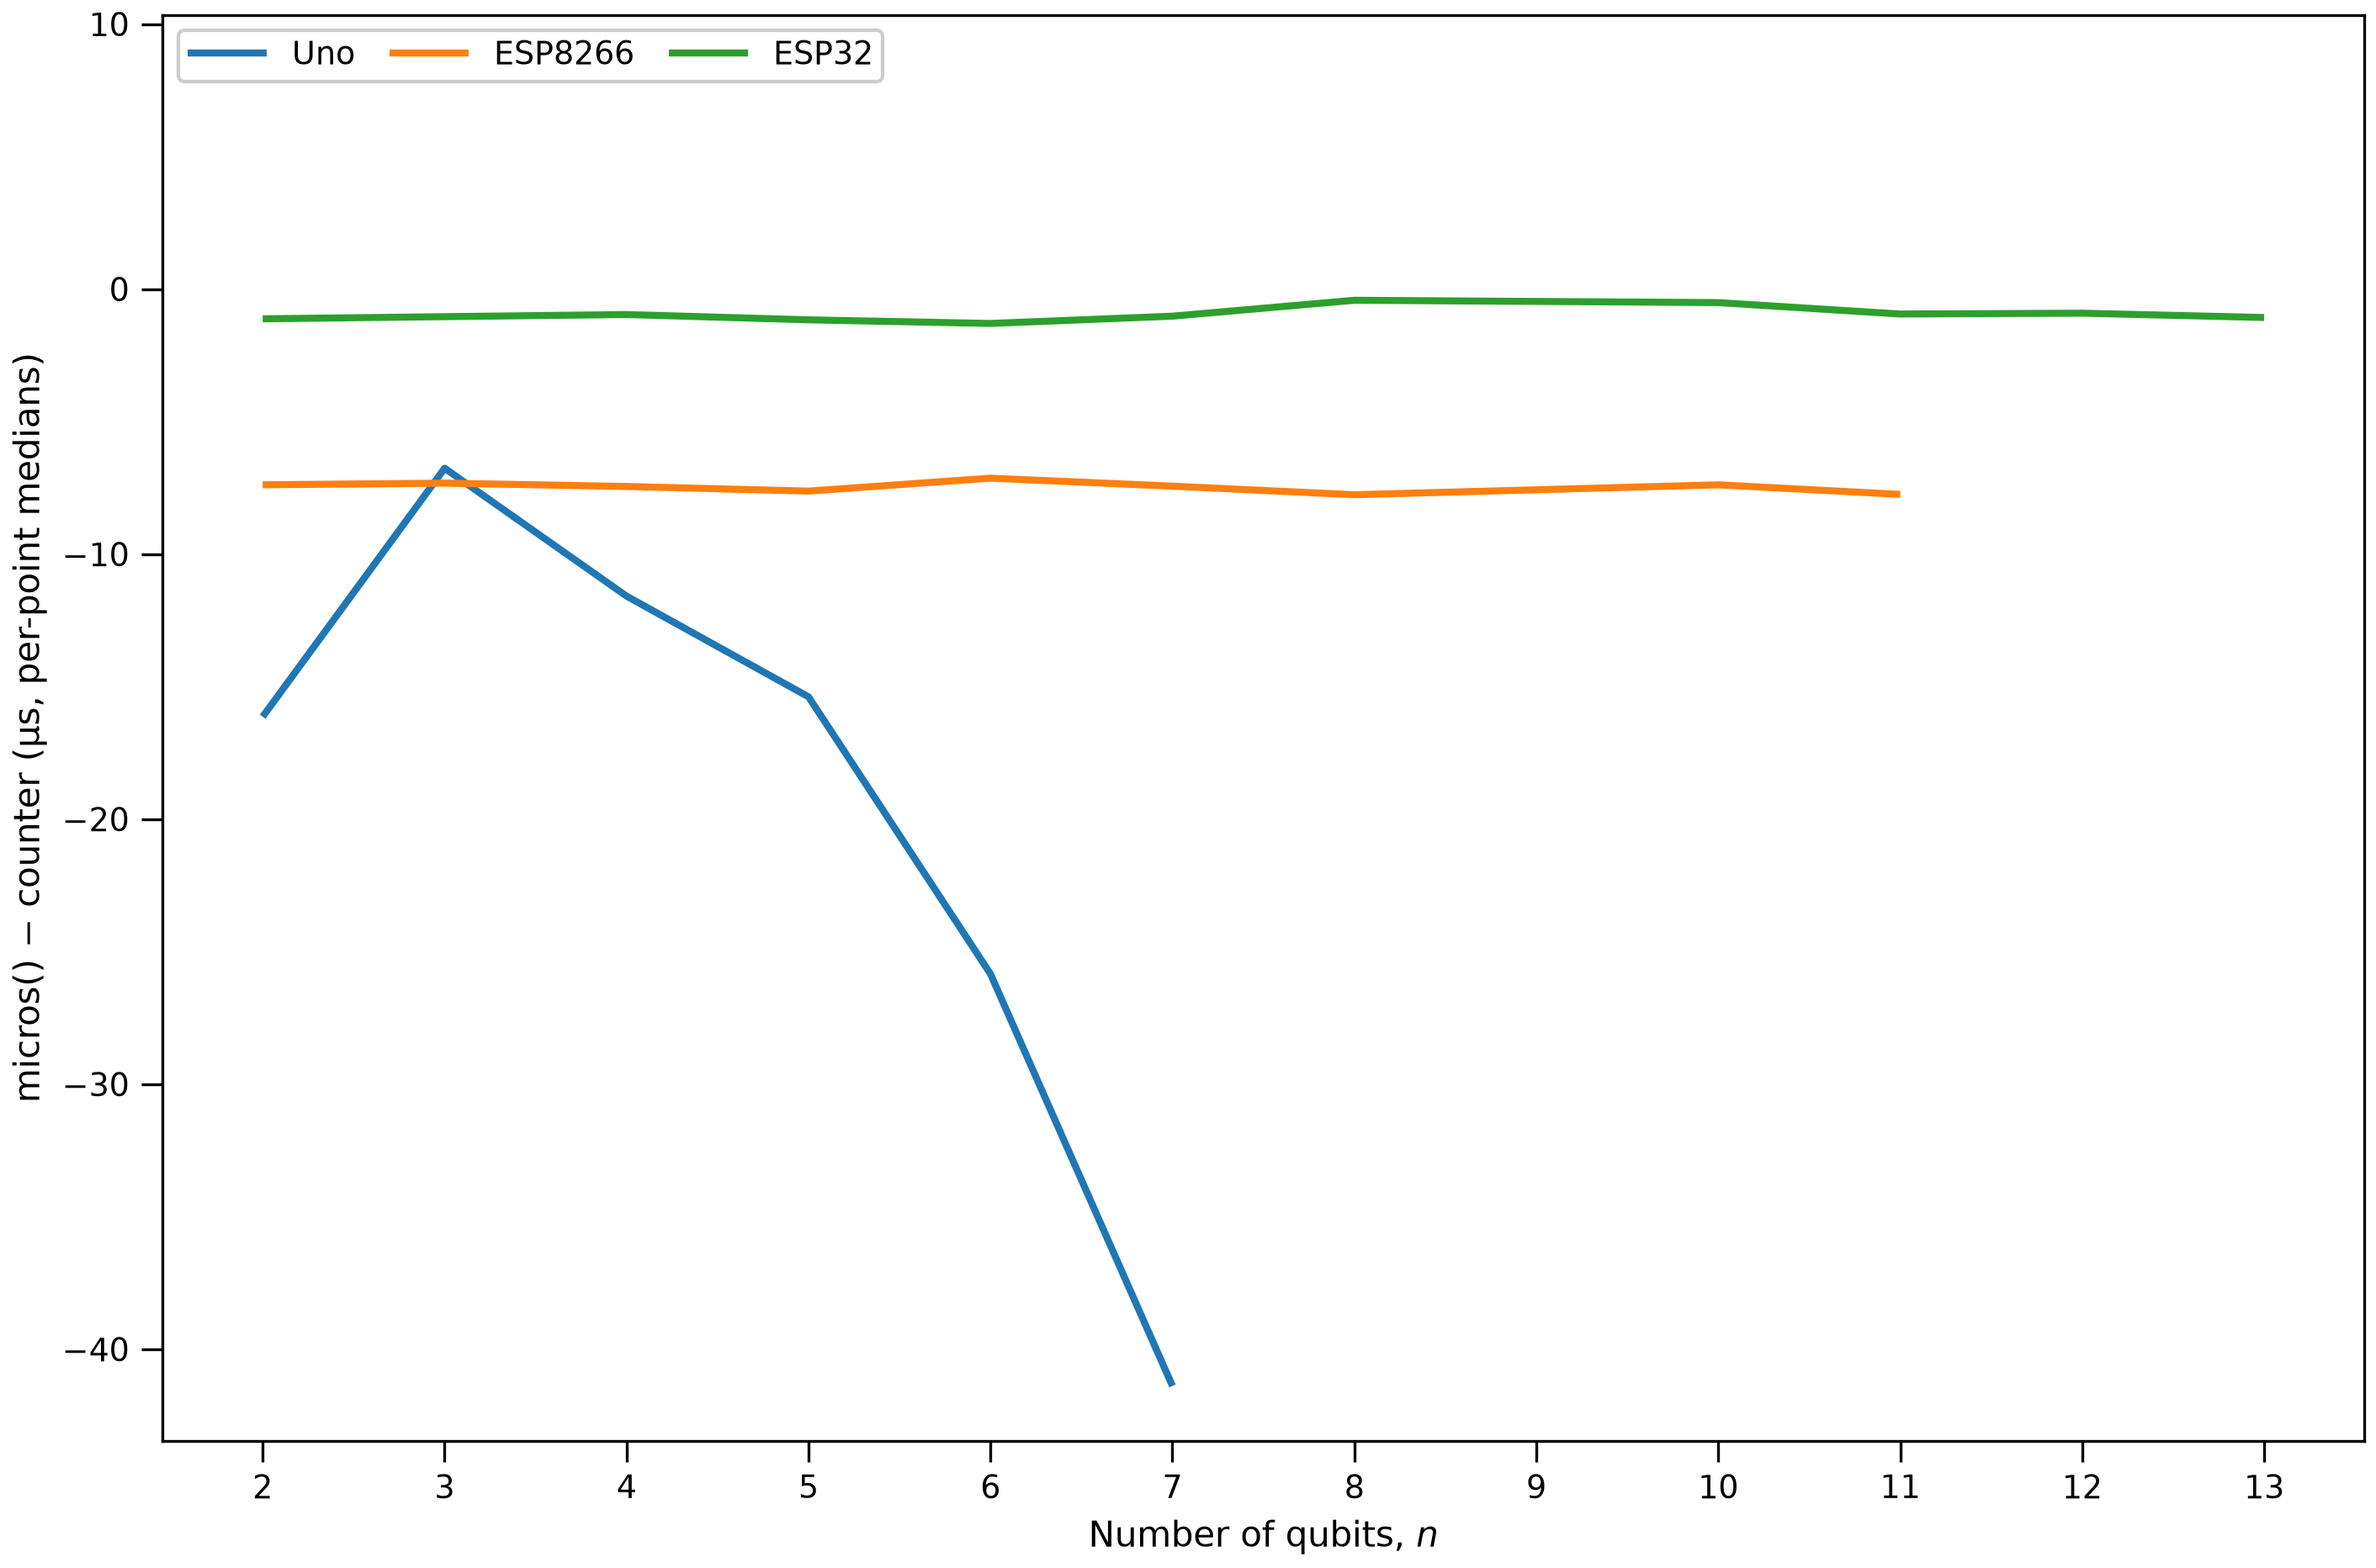
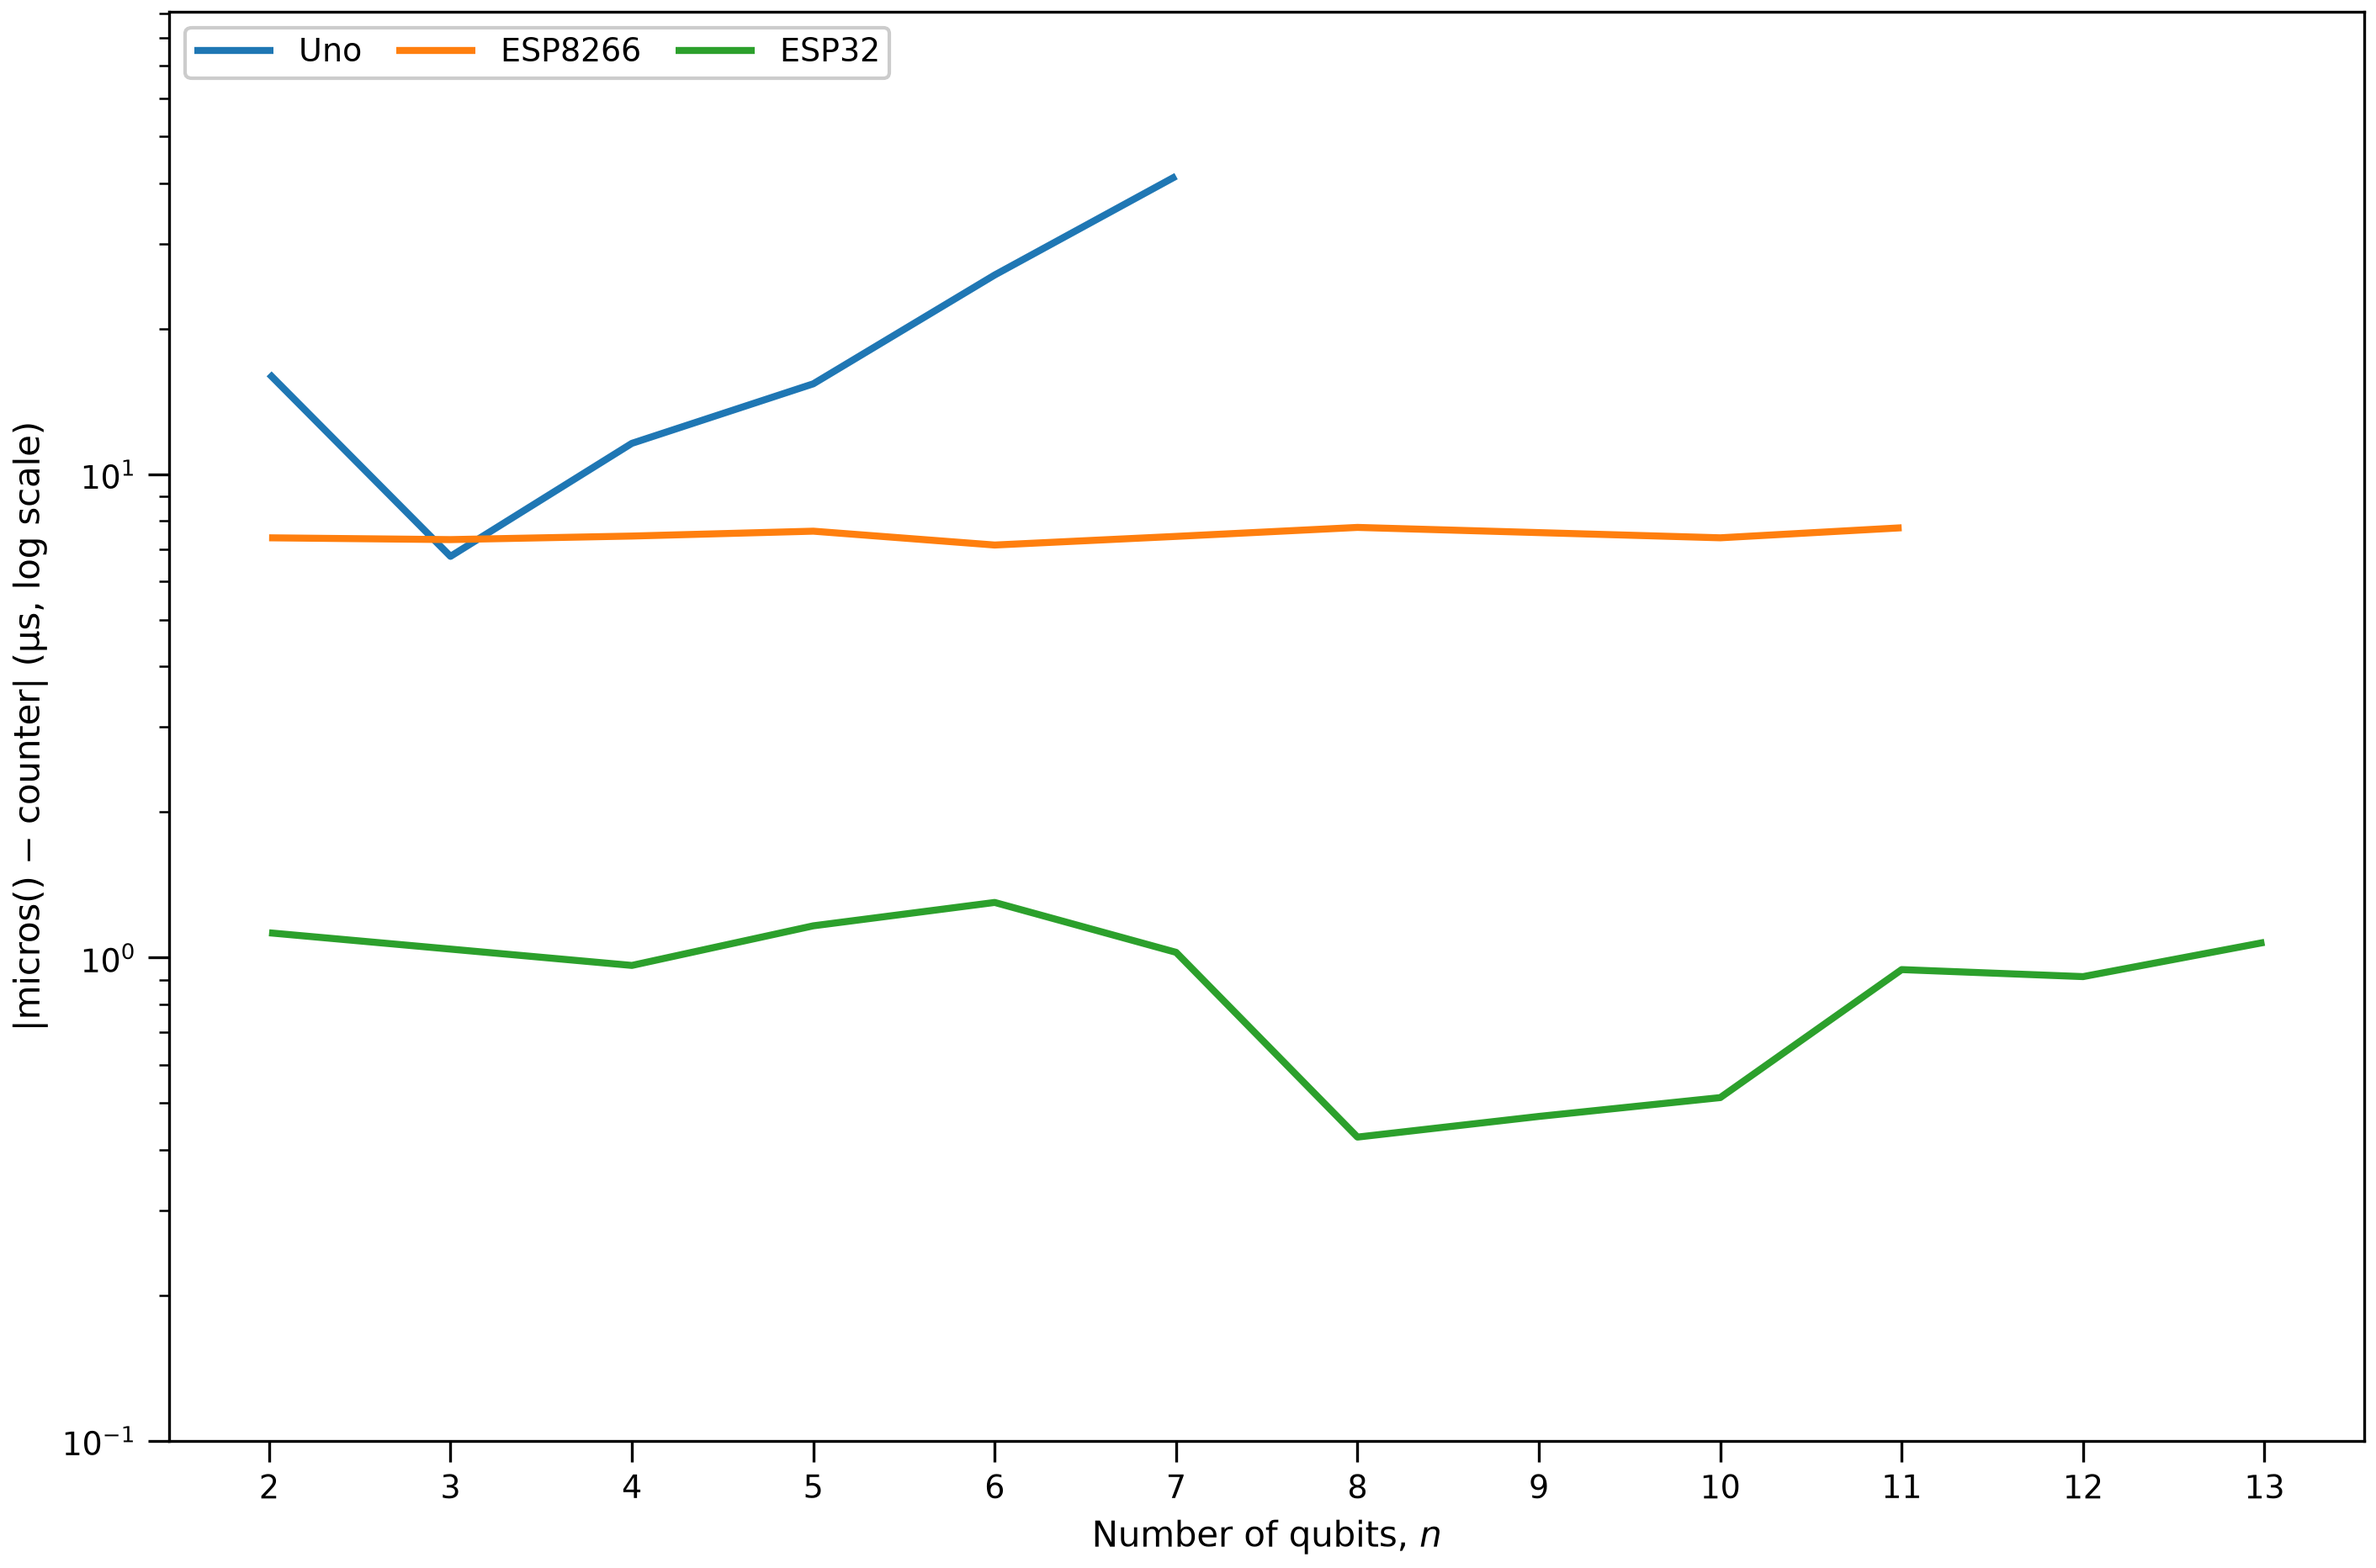
figures: timer_vs_counter charts on a log axis (absolute difference in microseconds)
Claude-Session: https://claude.ai/code/session_01AE6WdfFceGc968bUQSKnsU

diff --git a/analysis/timer_vs_counter_house_plots.py b/analysis/timer_vs_counter_house_plots.py
@@ -1,6 +1,6 @@
 #!/usr/bin/env python3
 # timer_vs_counter_house_plots.py
-# micros() minus counter (µs, point medians) vs n, one chart per circuit with the three boards, in the house line-chart style of the graph-create skill
+# |micros() minus counter| (µs, log scale, point medians; the sign is not shown) vs n, one chart per circuit with the three boards, in the house line-chart style of the graph-create skill
 # (same layout as analysis/algorithm_house_plots.py: no title, legend = board names, linear y). Only points whose counter pair passed the validity rules
 # (usable) in the selected sessions are drawn (data/derived/counter_validity.csv, read-only); the line is drawn straight over unusable points.
 #   data/figures/phase2/timer_vs_counter/<circuit>.png   data/figures/phase3/timer_vs_counter/<circuit>.png
@@ -9,6 +9,7 @@ import glob
 import os
 import sys
 
+import matplotlib.ticker as mticker
 import numpy as np
 import pandas as pd
 
@@ -21,7 +22,8 @@ from plot_style import plot_grouped_lines, save_figure  # noqa: E402
 
 cv = pd.read_csv(os.path.join(ROOT, "data", "derived", "counter_validity.csv"))
 cv = cv[cv.selected.astype(bool) & cv.usable.astype(bool) & (cv.counter_median_us > 0) & (cv.micros_median_us > 0)]
-cv = cv.assign(ratio=cv.micros_median_us - cv.counter_median_us)     # column name kept: it is the plotted value, in µs
+cv = cv.assign(ratio=(cv.micros_median_us - cv.counter_median_us).abs())     # column name kept: it is the plotted value, in µs
+cv = cv[cv.ratio > 0]                                                        # a log axis cannot show an exact 0
 NAME = {"uno": "Uno", "esp8266": "ESP8266", "esp32": "ESP32"}
 for ph in (2, 3):
     for c in ("h_all", "bell_ghz", "qft", "grover"):
@@ -29,13 +31,18 @@ for ph in (2, 3):
         rows = [{"n": int(r.n), "ratio": float(r.ratio), "board": NAME[r.board], "series": "ratio"} for r in g.sort_values(["board", "n"]).itertuples()]
         df = pd.DataFrame(rows)
         fig, ax = plot_grouped_lines(df, "n", "ratio", "board", "series", title="", xlabel="Number of qubits, $n$",
-                                     ylabel=r"micros() $-$ counter (µs, per-point medians)", log_y=False,
+                                     ylabel=r"|micros() $-$ counter| (µs, log scale)",
                                      group_order=list(NAME.values()), series_order=["ratio"])
         for t in ax.get_legend().get_texts():
             t.set_text(t.get_text().replace(" ratio", ""))
-        lo, hi = min(df.ratio.min(), 0.0), max(df.ratio.max(), 0.0)          # always shows 0 (no difference)
-        span = max(hi - lo, 1.0)
-        ax.set_ylim(lo - 0.05 * span, hi + 0.25 * span)                      # headroom for the legend
+        lo, hi = df.ratio.min(), df.ratio.max()
+        lo_e = int(np.floor(np.log10(lo)))
+        ax.set_ylim(10.0 ** lo_e, 10.0 ** (np.log10(hi) + 0.13 * (np.log10(hi) - lo_e)))   # whole decade below, headroom for the legend
+        ax.yaxis.set_major_locator(mticker.LogLocator(base=10, numticks=30))
+        ax.yaxis.set_major_formatter(mticker.LogFormatterMathtext(base=10))
+        ax.yaxis.set_minor_locator(mticker.LogLocator(base=10, subs=np.arange(2, 10), numticks=60))
+        ax.yaxis.set_minor_formatter(mticker.NullFormatter())
+        ax.tick_params(axis="y", which="minor", length=3, direction="out")
         out = os.path.join(ROOT, "data", "figures", f"phase{ph}", "timer_vs_counter", f"{c}.png")
         os.makedirs(os.path.dirname(out), exist_ok=True)
         save_figure(fig, out)
